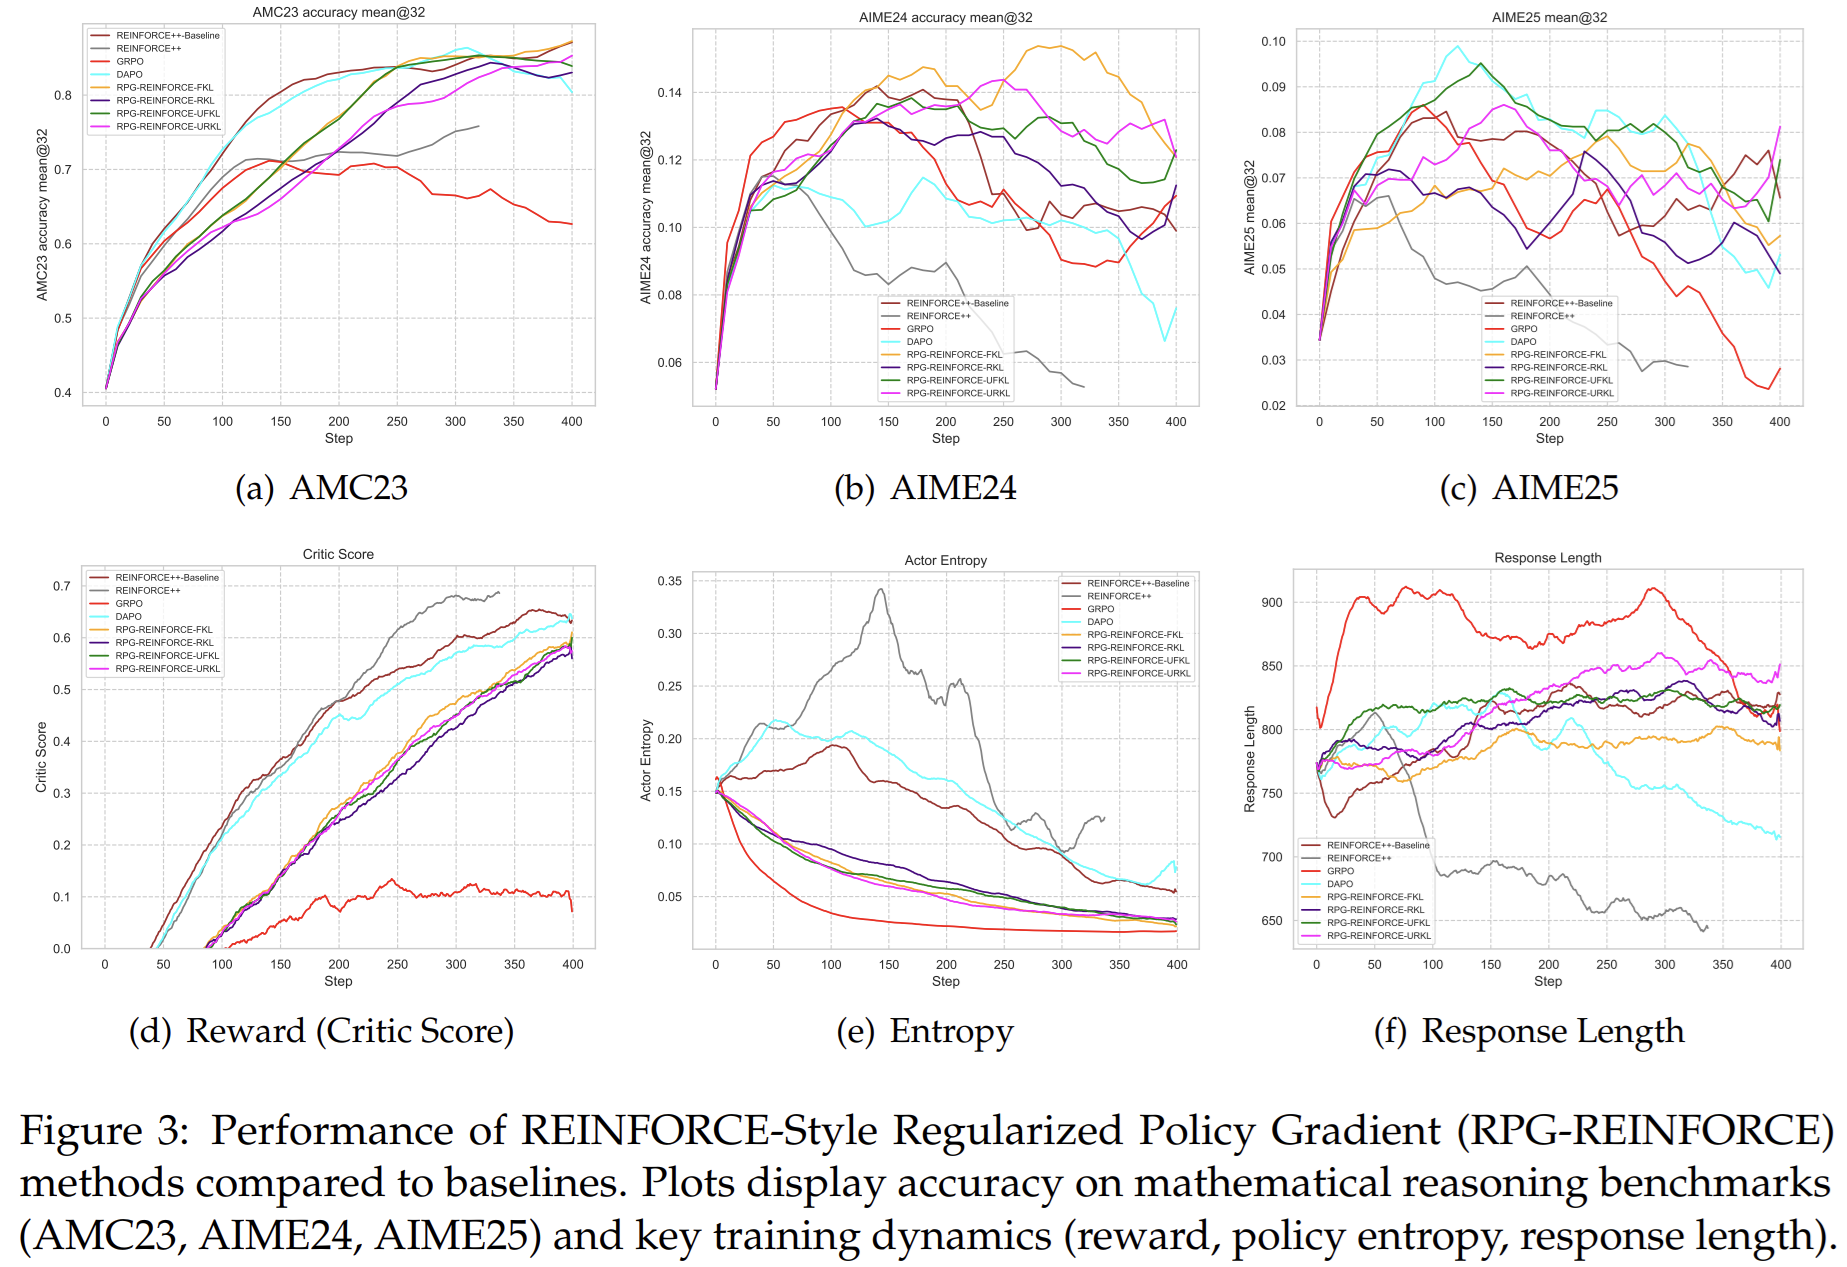
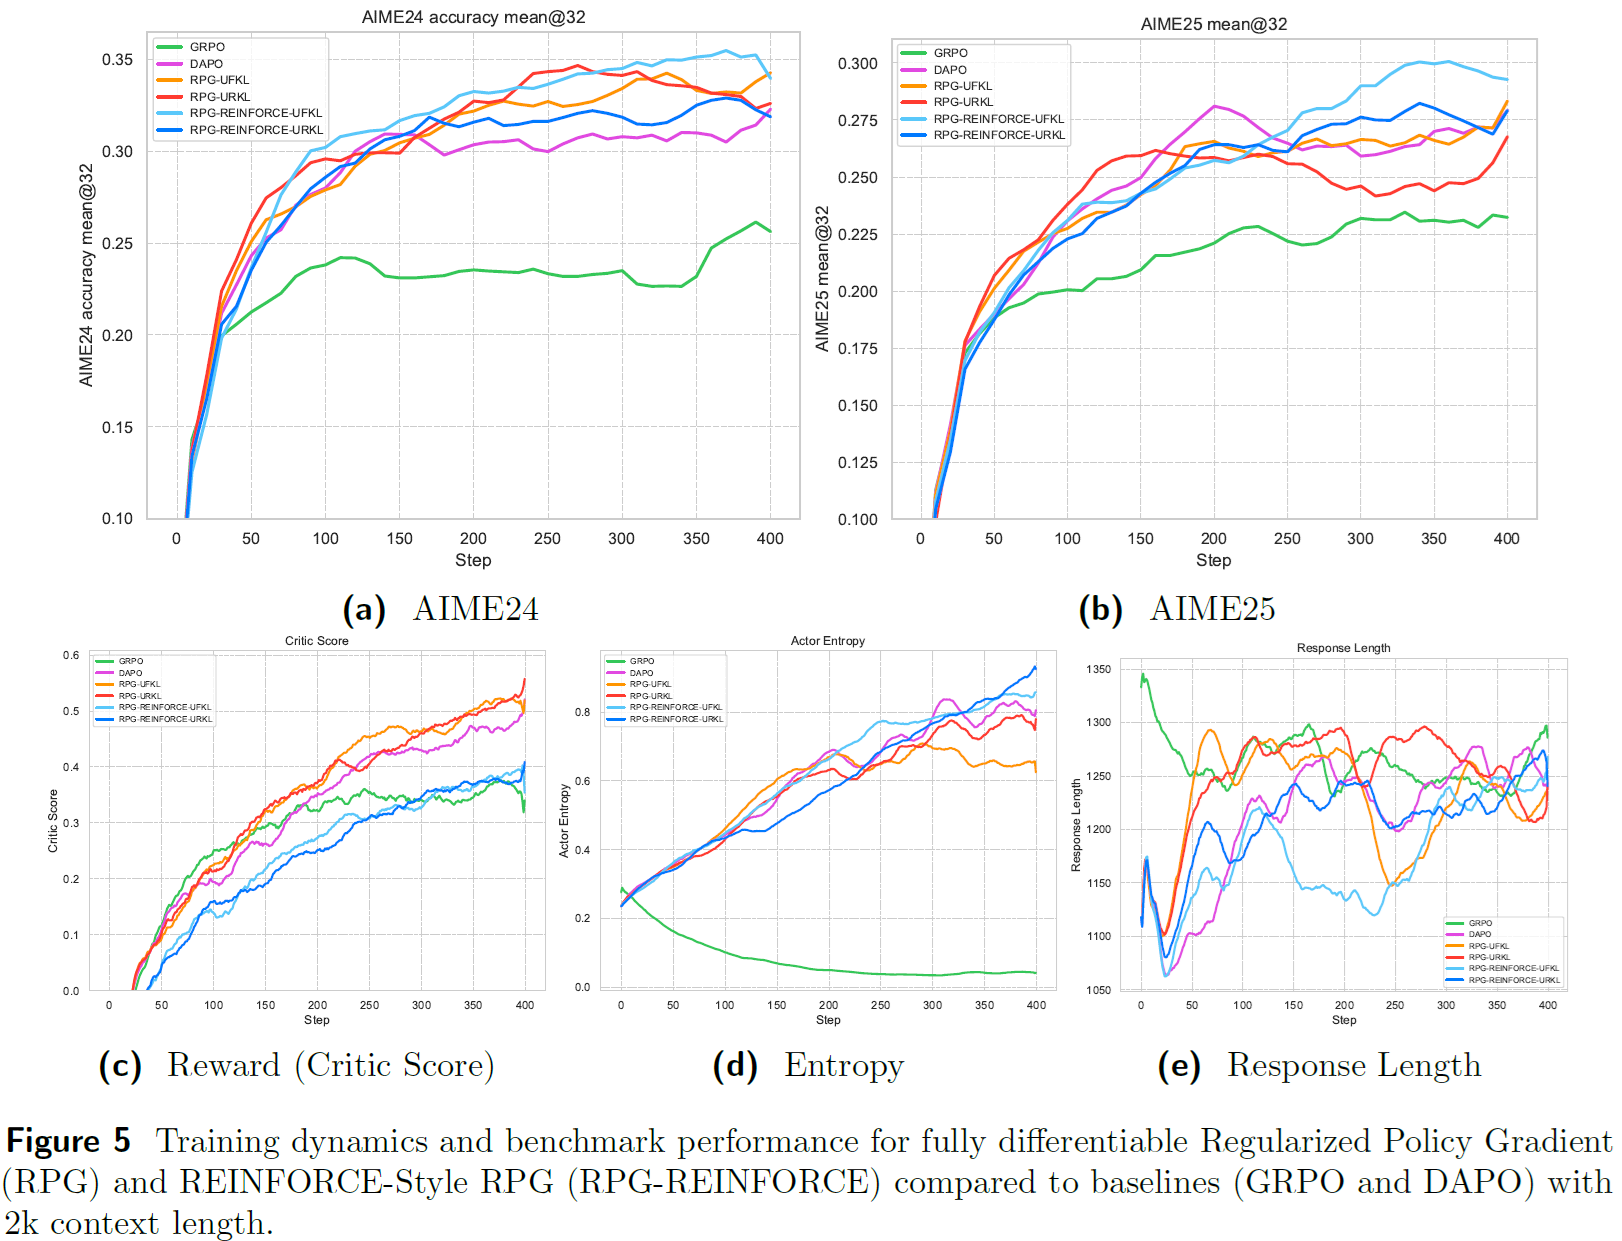
update v2

diff --git a/index.html b/index.html
@@ -189,10 +189,19 @@
         <h4 class="title">Experimental Results</h4>
         <figure>
             <p align="center">
-                <img src="static/images/table3.png" width="800" height="800" alt="The evaluation results of pretrained medium-size models (353M)"/>
+                <img src="static/images/table3.png" width="800" height="800" alt="4K context length results"/>
             </p>
             <figcaption align="center">
-                Combined performance metrics on the AMC23, AIME24, and AIME25 mathematical reasoning benchmarks, showing "Last" and "Best" scores. 
+                Combined performance metrics on the AIME24 and AIME25 mathematical reasoning benchmarks, showing "Last" and "Best" scores for 4K context length. 
+                The "Last" score is from the 400th training step, assuming the training process remained stable to that point. 
+                The highest score in each column is <b>bolded</b>, and the second highest is <span style="text-decoration:underline;">underlined</span>. 
+                RPG and RPG-REINFORCE methods are highlighted with light cyan and light green backgrounds, respectively.
+            </figcaption>
+          <p align="center">
+                <img src="static/images/table5.png" width="800" height="800" alt="2K context length results"/>
+            </p>
+             <figcaption align="center">
+                Combined performance metrics on the AIME24 and AIME25 mathematical reasoning benchmarks, showing "Last" and "Best" scores for 2K context length. 
                 The "Last" score is from the 400th training step, assuming the training process remained stable to that point. 
                 The highest score in each column is <b>bolded</b>, and the second highest is <span style="text-decoration:underline;">underlined</span>. 
                 RPG and RPG-REINFORCE methods are highlighted with light cyan and light green backgrounds, respectively.
@@ -203,7 +212,7 @@
               <img src="static/images/figure2.png" width="900" height="600" alt="Training loss plot"/>
             </p>
             <figcaption align="center">
-              Training dynamics and benchmark performance for fully differentiable Regularized Policy Gradient (RPG) compared to baselines (GRPO, DAPO, REINFORCE++, REINFORCE++-Baseline).
+              Training dynamics and benchmark performance for RPG and REINFORCE-style RPG compared to baselines (GRPO, DAPO) with 4K context length.
             </figcaption>
           </figure>
         <figure>
@@ -211,7 +220,7 @@
             <img src="static/images/figure3.png" width="900" height="600" alt="Validation loss plot"/>
           </p>
           <figcaption align="center">
-            Performance of REINFORCE-Style Regularized Policy Gradient (RPG-REINFORCE) methods compared to baselines. Plots display accuracy on mathematical reasoning benchmarks (AMC23, AIME24, AIME25) and key training dynamics (reward, policy entropy, response length).
+            Training dynamics and benchmark performance for RPG and REINFORCE-style RPG compared to baselines (GRPO, DAPO) with 2K context length.
           </figcaption>
         </figure>
       </div>